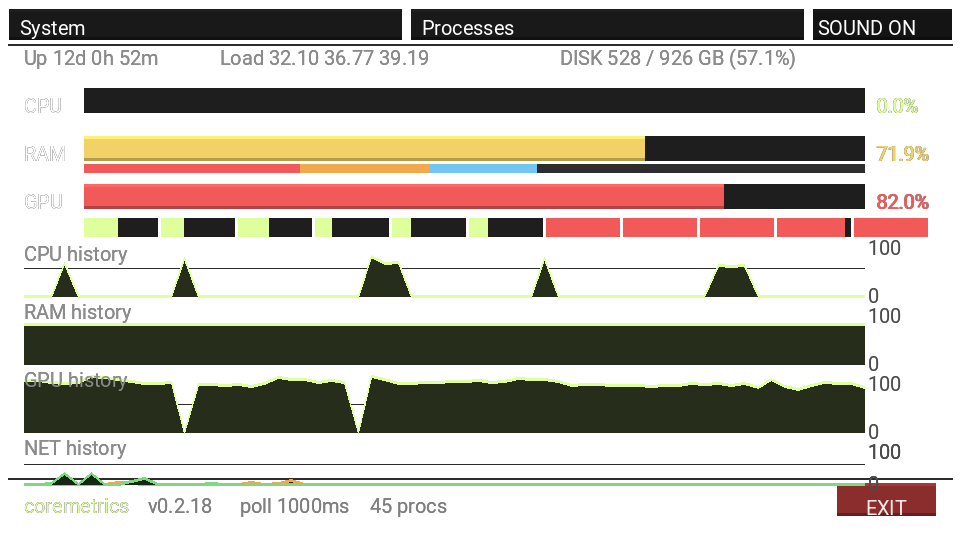
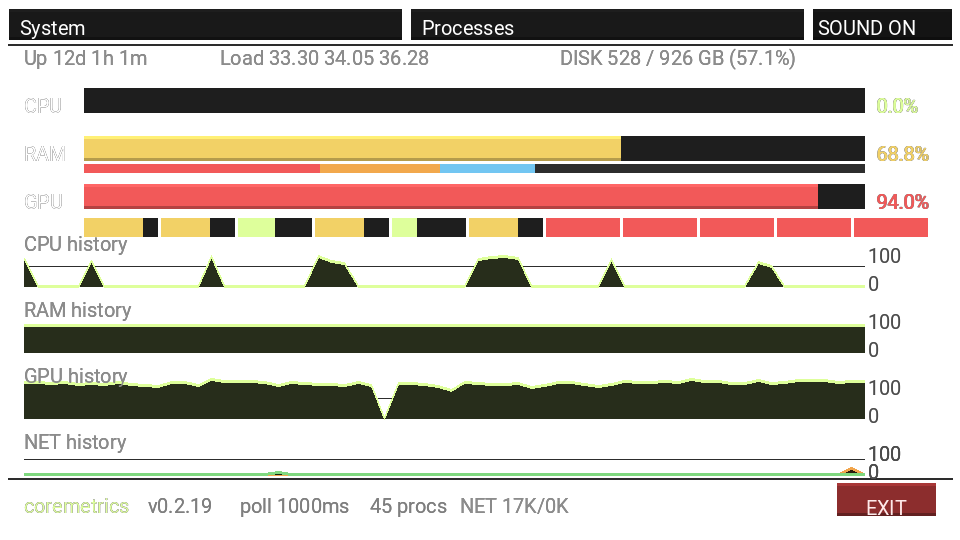
fix(ui+ci): tighter sparkline layout, fresh hero screenshots, race-resilient contribution badge push
UI:
- Sparkline labels were sitting AT the top edge of each chart and
  getting overwritten by the polyline fill on every peak. Moves
  each label 12px above its chart so 'CPU history' / 'RAM history'
  / 'GPU history' / 'NET history' sit in clear sky above the
  data. Shrinks each chart from 56px tall to 40px so the 4-chart
  stack (CPU/RAM/GPU/NET) fits in the y=240..480 band with breathing
  room between chart and the next label.
- Sparkline '0' tick label moved from inside the chart (maxPos.y-14)
  to just below the chart (maxPos.y-16, now visually at the bottom
  edge) so the polyline fill never overlaps the tick.
- Regenerates assets/screenshot-system.png and assets/screenshot-processes.png
  against the v0.2.19 binary with the new layout.

CI:
- Contribution-badge workflow was racing every merge: by the time it
  finished recomputing, main had moved on, and the push got rejected
  for non-fast-forward. README contribution section therefore never
  refreshed across the last ~10 merges. Adds a 5-attempt retry loop
  that fetches main, rebases, and falls back to a fresh recompute on
  top of the moved tip if the rebase conflicts on the badge files.

diff --git a/coremetrics.cpp b/coremetrics.cpp
@@ -359,22 +359,28 @@ static void buildSparklines()
     // matches the same accent color, so the polyline reads as a continuation
     // of its bar. Heights are 56px / row with 12px gaps.
     const vec3 accent(0.871f, 1.0f, 0.608f);
-    g_cpuSparkline = new Sparkline(ivec2(24, 240), ivec2(864, 296), accent,
+    // Sparkline stack: 4 charts at 40px each with a 14px label band above
+    // each chart. Labels live at chart-top minus 12px so they sit cleanly
+    // above the polyline instead of being overwritten by the fill. Tick
+    // labels ("100" / "0") render at maxPos.x + 4 in the 80px right
+    // gutter (chart maxPos.x = 864, screen width = 960). 0 tick now sits
+    // 4px BELOW the chart (maxPos.y + 4) so it never sits inside the
+    // polyline fill area.
+    g_cpuSparkline = new Sparkline(ivec2(24, 246), ivec2(864, 286), accent,
                                    0.0f, 100.0f, SPARKLINE_CAPACITY);
-    g_ramSparkline = new Sparkline(ivec2(24, 308), ivec2(864, 364), accent,
+    g_ramSparkline = new Sparkline(ivec2(24, 312), ivec2(864, 352), accent,
                                    0.0f, 100.0f, SPARKLINE_CAPACITY);
-    g_gpuSparkline = new Sparkline(ivec2(24, 376), ivec2(864, 432), accent,
+    g_gpuSparkline = new Sparkline(ivec2(24, 378), ivec2(864, 418), accent,
                                    0.0f, 100.0f, SPARKLINE_CAPACITY);
-    // NET strip sits in the gap between the GPU sparkline (ends at y=432)
-    // and the footer chrome (y=492). 40px tall instead of 56px so the
-    // label above (y=434) and the footer below both have breathing room.
-    // tx (orange) is constructed first so it renders behind the rx (green)
-    // line in the draw pass; incoming traffic reads as more important.
+    // tx (orange) is constructed first so it renders behind the rx
+    // (green) line in the draw pass; incoming traffic reads as more
+    // important. NET strip ends at y=474 leaving 8px clear of the
+    // y=482..516 EXIT button + footer chrome.
     const vec3 netTx(0.95f, 0.65f, 0.30f);
     const vec3 netRx(0.5f, 0.85f, 0.5f);
-    g_netTxSparkline = new Sparkline(ivec2(24, 444), ivec2(864, 484), netTx,
+    g_netTxSparkline = new Sparkline(ivec2(24, 444), ivec2(864, 474), netTx,
                                      0.0f, NET_SPARKLINE_MAX_KBPS, SPARKLINE_CAPACITY);
-    g_netRxSparkline = new Sparkline(ivec2(24, 444), ivec2(864, 484), netRx,
+    g_netRxSparkline = new Sparkline(ivec2(24, 444), ivec2(864, 474), netRx,
                                      0.0f, NET_SPARKLINE_MAX_KBPS, SPARKLINE_CAPACITY);
 }
 
@@ -752,15 +758,14 @@ static void renderHelpOverlay(Screen &dest)
 static void renderSparklineLabels(Screen &dest)
 {
     const vec3 dim(0.55f, 0.55f, 0.55f);
-    // CPU history label moved from y=230 (inside the per-core strip
-    // y=218..236) to y=240, just below the strip. Otherwise the
-    // per-core fill boxes redraw over it every poll.
-    Font::drawText(dest, "CPU history", ivec2(24, 240), dim);
-    Font::drawText(dest, "RAM history", ivec2(24, 298), dim);
-    Font::drawText(dest, "GPU history", ivec2(24, 366), dim);
-    // NET history sits in the same column at the bottom of the sparkline
-    // stack, 10px above its strip (y=444..484) the way RAM/GPU labels do.
-    Font::drawText(dest, "NET history", ivec2(24, 434), dim);
+    // One label per sparkline, painted 12px above the chart's top edge
+    // so the text sits in clear sky above the polyline fill instead of
+    // getting overwritten on every peak. Chart rects are CPU 246..286,
+    // RAM 312..352, GPU 378..418, NET 444..474.
+    Font::drawText(dest, "CPU history", ivec2(24, 230), dim);
+    Font::drawText(dest, "RAM history", ivec2(24, 296), dim);
+    Font::drawText(dest, "GPU history", ivec2(24, 362), dim);
+    Font::drawText(dest, "NET history", ivec2(24, 428), dim);
 }
 
 static void pollMetrics()

diff --git a/src/Sparkline.cpp b/src/Sparkline.cpp
@@ -156,10 +156,13 @@ void Sparkline::draw(Screen &screen) const
     // Axis tick labels at the right edge anchor the rect to absolute
     // values (0..100). Typical sparkline rects are (24,*)..(864,*) inside
     // a 960px window, leaving ~96px of room past maxPos.x, so the labels
-    // fit comfortably outside the data area.
+    // fit comfortably outside the data area. The "100" label sits at the
+    // chart's top edge and "0" at the bottom edge, both above the chart's
+    // visual midline so they read as endpoint markers without bleeding
+    // into the next chart's space.
     vec3 labelColor(0.30f, 0.30f, 0.30f);
-    ivec2 hiPos(maxPos.x + 4, minPos.y - 6);
-    ivec2 loPos(maxPos.x + 4, maxPos.y - 14);
+    ivec2 hiPos(maxPos.x + 4, minPos.y - 4);
+    ivec2 loPos(maxPos.x + 4, maxPos.y - 16);
     Font::drawText(screen, "100", hiPos, labelColor);
     Font::drawText(screen, "0", loPos, labelColor);
 }